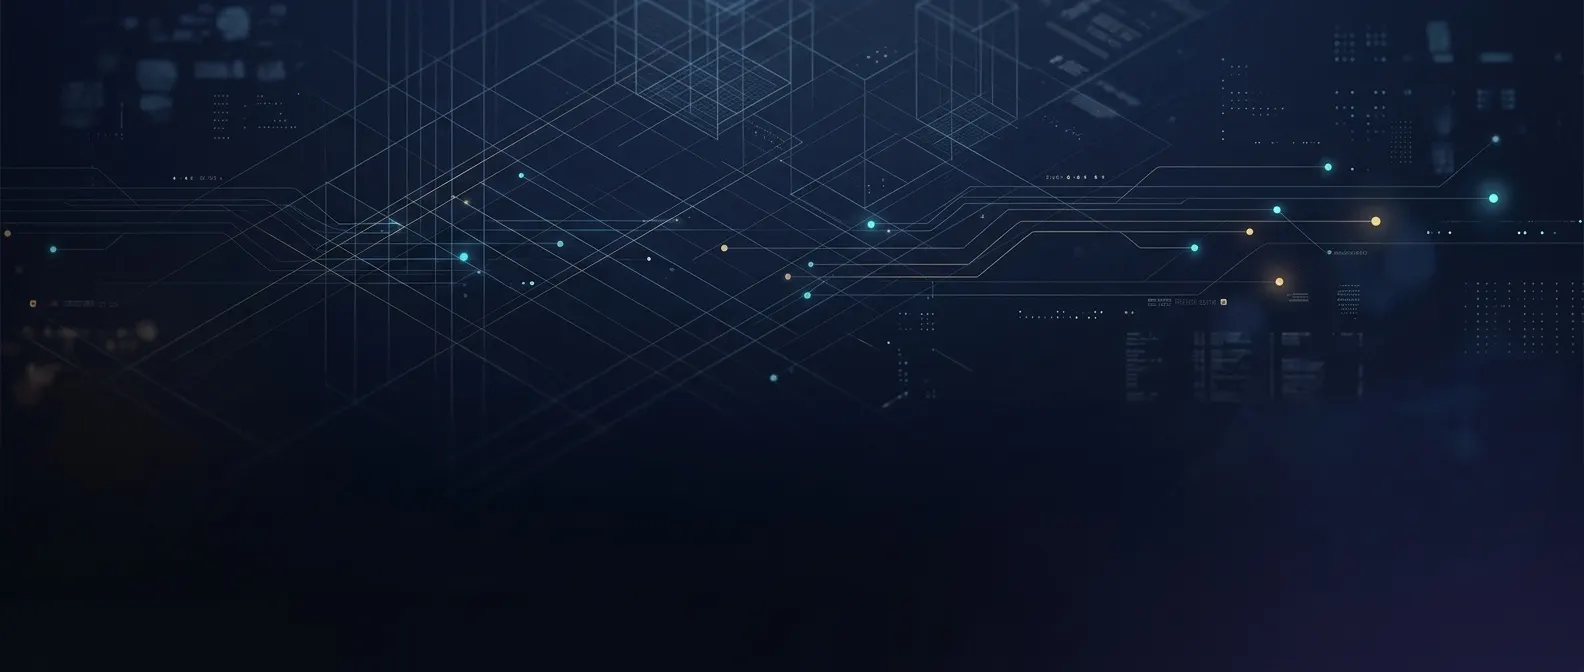
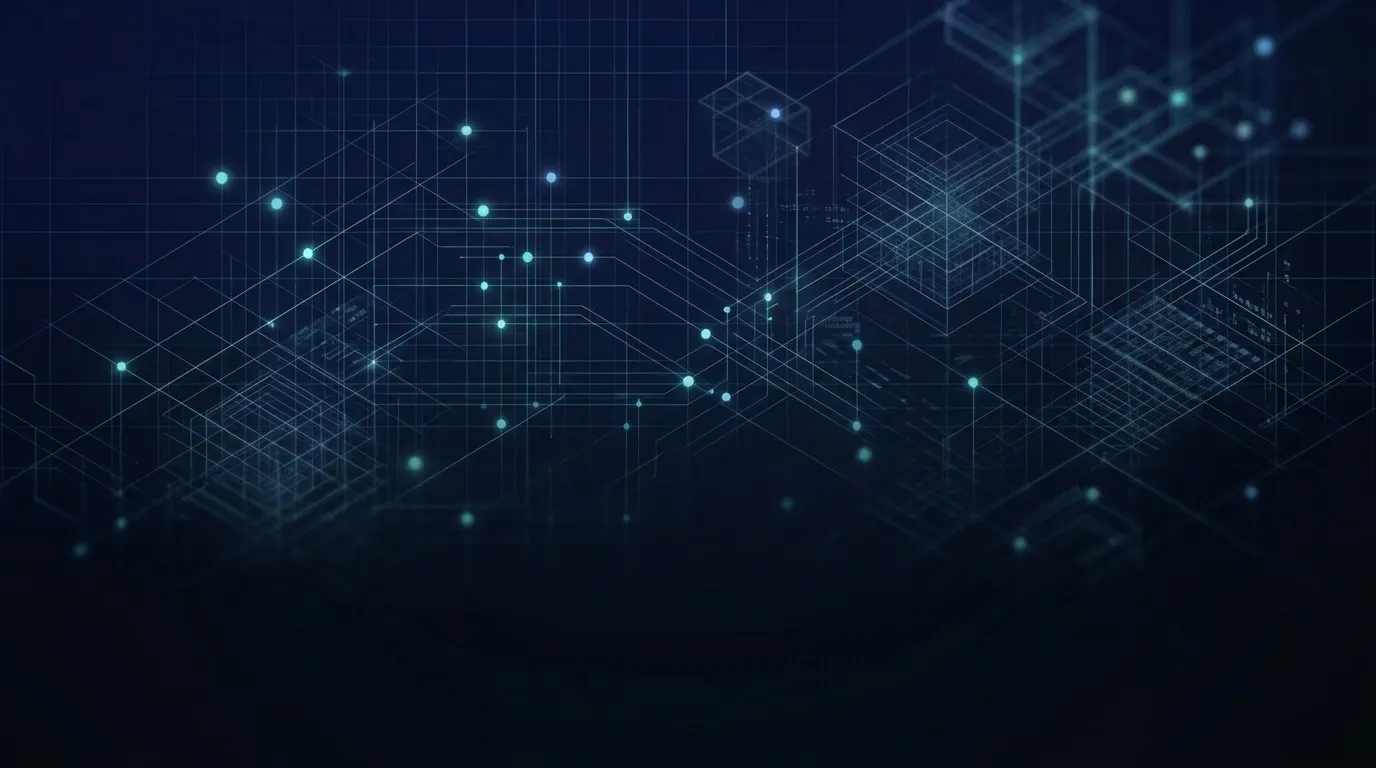
fix: footer-accenten naar bestaand appelblauwzeegroen
- amber/cyan vervangen door #a8d8f0 uit de hero-image
- nieuwe blueprint-bg zonder goud, in dezelfde blauw-aqua familie

diff --git a/src/components/Footer.jsx b/src/components/Footer.jsx
@@ -51,7 +51,7 @@ const Footer = ({ siteSettings = {}, footerData = {}, data }) => {
       }}
     >
       {/* Gloeiende accent-lijn bovenaan */}
-      <div className="h-px w-full bg-gradient-to-r from-transparent via-cyan-300 to-transparent opacity-70"></div>
+      <div className="h-px w-full bg-gradient-to-r from-transparent via-[#a8d8f0] to-transparent opacity-70"></div>
 
       {/* Groot watermerk */}
       <span
@@ -67,13 +67,13 @@ const Footer = ({ siteSettings = {}, footerData = {}, data }) => {
         {/* --- CTA-bloc --- */}
         <div className="flex flex-col lg:flex-row lg:items-end lg:justify-between gap-10 pb-14 border-b border-white/10">
           <div className="max-w-3xl">
-            <p className="text-[10px] uppercase tracking-[0.35em] text-cyan-300 mb-6 flex items-center gap-3" style={monoFont}>
-              <span className="inline-block w-8 h-px bg-cyan-300/70"></span>
+            <p className="text-[10px] uppercase tracking-[0.35em] text-[#a8d8f0] mb-6 flex items-center gap-3" style={monoFont}>
+              <span className="inline-block w-8 h-px bg-[#a8d8f0]/70"></span>
                 04 / Samen bouwen
             </p>
             <h2 className="text-4xl md:text-6xl lg:text-7xl font-semibold leading-[1.05] text-white" style={displayFont}>
               Uw idee.<br />
-              <em className="text-amber-300 not-italic">Onze bouwstenen.</em>
+              <em className="text-[#a8d8f0] not-italic">Onze bouwstenen.</em>
             </h2>
             <p className="mt-6 text-base md:text-lg text-slate-400 max-w-xl leading-relaxed">
               Van een Google Sheet tot een live site. Vertel ons wat u voor ogen heeft — wij zetten het om in iets dat werkt.
@@ -82,7 +82,7 @@ const Footer = ({ siteSettings = {}, footerData = {}, data }) => {
           <a
             href="#contact"
             onClick={scrollTo('contact')}
-            className="group inline-flex items-center gap-4 self-start lg:self-auto px-8 py-4 rounded-full bg-cyan-300 text-slate-950 font-bold text-sm transition-all duration-300 hover:bg-amber-300 hover:shadow-[0_0_40px_-8px_rgba(253,224,71,.6)]"
+            className="group inline-flex items-center gap-4 self-start lg:self-auto px-8 py-4 rounded-full bg-accent text-white font-bold text-sm transition-all duration-300 hover:bg-[#a8d8f0] hover:text-slate-950 hover:shadow-[0_0_40px_-8px_rgba(168,216,240,.55)]"
           >
             Start uw project
             <i className="fa-solid fa-arrow-up-right-from-square text-xs transition-transform group-hover:translate-x-1 group-hover:-translate-y-1"></i>
@@ -120,7 +120,7 @@ const Footer = ({ siteSettings = {}, footerData = {}, data }) => {
                     target="_blank"
                     rel="noopener noreferrer"
                     aria-label={s.label}
-                    className="w-10 h-10 rounded-lg border border-white/15 flex items-center justify-center text-slate-400 hover:bg-cyan-300 hover:border-cyan-300 hover:text-slate-950 transition-all duration-300"
+                    className="w-10 h-10 rounded-lg border border-white/15 flex items-center justify-center text-slate-400 hover:bg-[#a8d8f0] hover:border-[#a8d8f0] hover:text-slate-950 transition-all duration-300"
                   >
                     <i className={`fa-brands ${s.icon} text-sm`}></i>
                   </a>
@@ -131,7 +131,7 @@ const Footer = ({ siteSettings = {}, footerData = {}, data }) => {
 
           {/* Navigatie */}
           <nav className="lg:col-span-3" aria-label="Footer navigatie">
-            <h3 className="text-[10px] uppercase tracking-[0.3em] text-cyan-300 mb-7" style={monoFont}>
+            <h3 className="text-[10px] uppercase tracking-[0.3em] text-[#a8d8f0] mb-7" style={monoFont}>
               01 / Navigator
             </h3>
             <ul className="space-y-3 text-sm font-medium">
@@ -140,9 +140,9 @@ const Footer = ({ siteSettings = {}, footerData = {}, data }) => {
                   <a
                     href={`#${item.id}`}
                     onClick={scrollTo(item.id)}
-                    className="text-slate-300 hover:text-cyan-200 transition-colors flex items-center gap-3 group"
+                    className="text-slate-300 hover:text-[#a8d8f0] transition-colors flex items-center gap-3 group"
                   >
-                    <span className="w-1 h-1 bg-amber-300 rounded-full opacity-0 group-hover:opacity-100 transition-opacity"></span>
+                    <span className="w-1 h-1 bg-[#a8d8f0] rounded-full opacity-0 group-hover:opacity-100 transition-opacity"></span>
                     {item.label}
                   </a>
                 </li>
@@ -152,16 +152,16 @@ const Footer = ({ siteSettings = {}, footerData = {}, data }) => {
 
           {/* Contact */}
           <div className="lg:col-span-4">
-            <h3 className="text-[10px] uppercase tracking-[0.3em] text-cyan-300 mb-7" style={monoFont}>
+            <h3 className="text-[10px] uppercase tracking-[0.3em] text-[#a8d8f0] mb-7" style={monoFont}>
               02 / Contact
             </h3>
             <ul className="space-y-5 text-sm">
               {footer.email && (
                 <li className="flex items-start gap-4">
-                  <i className="fa-solid fa-envelope text-cyan-300 mt-1 w-4"></i>
+                  <i className="fa-solid fa-envelope text-[#a8d8f0] mt-1 w-4"></i>
                   <a
                     href={`mailto:${footer.email}`}
-                    className="text-slate-200 hover:text-cyan-200 transition-colors break-all"
+                    className="text-slate-200 hover:text-[#a8d8f0] transition-colors break-all"
                     data-dock-type="text"
                     data-dock-bind="footer.0.email"
                   >
@@ -171,10 +171,10 @@ const Footer = ({ siteSettings = {}, footerData = {}, data }) => {
               )}
               {footer.telefoon && (
                 <li className="flex items-start gap-4">
-                  <i className="fa-solid fa-phone text-cyan-300 mt-1 w-4"></i>
+                  <i className="fa-solid fa-phone text-[#a8d8f0] mt-1 w-4"></i>
                   <a
                     href={`tel:${footer.telefoon.replace(/[^+\d]/g, '')}`}
-                    className="text-slate-200 hover:text-cyan-200 transition-colors"
+                    className="text-slate-200 hover:text-[#a8d8f0] transition-colors"
                     data-dock-type="text"
                     data-dock-bind="footer.0.telefoon"
                   >
@@ -184,7 +184,7 @@ const Footer = ({ siteSettings = {}, footerData = {}, data }) => {
               )}
               {footer.adres && (
                 <li className="flex items-start gap-4">
-                  <i className="fa-solid fa-location-dot text-cyan-300 mt-1 w-4"></i>
+                  <i className="fa-solid fa-location-dot text-[#a8d8f0] mt-1 w-4"></i>
                   <span className="text-slate-300" data-dock-type="text" data-dock-bind="footer.0.adres">
                     {footer.adres}
                   </span>
@@ -211,7 +211,7 @@ const Footer = ({ siteSettings = {}, footerData = {}, data }) => {
             <button
               onClick={scrollToTop}
               aria-label="Terug naar boven"
-              className="w-9 h-9 rounded-lg border border-white/15 flex items-center justify-center text-slate-400 hover:bg-cyan-300 hover:border-cyan-300 hover:text-slate-950 transition-all duration-300"
+              className="w-9 h-9 rounded-lg border border-white/15 flex items-center justify-center text-slate-400 hover:bg-[#a8d8f0] hover:border-[#a8d8f0] hover:text-slate-950 transition-all duration-300"
             >
               <i className="fa-solid fa-arrow-up text-xs"></i>
             </button>
